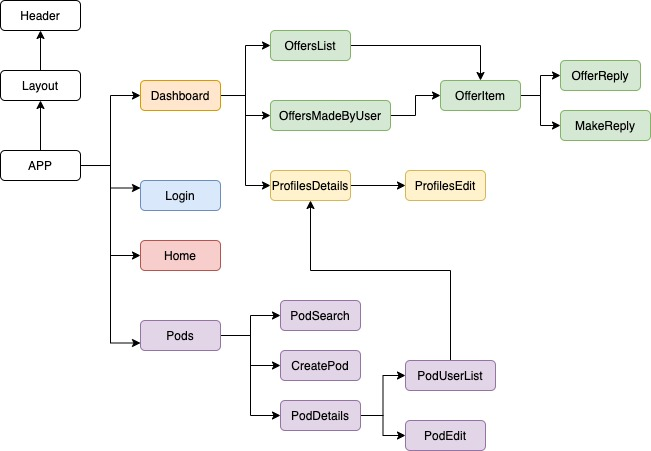
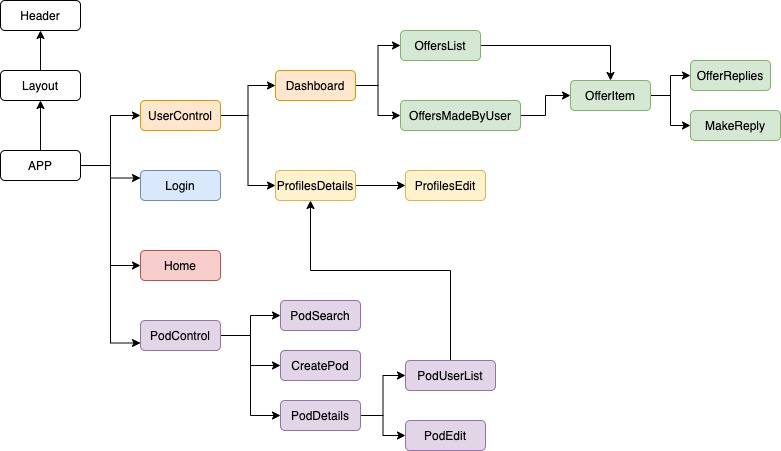
update NodeMockUp.js and add component files to match NodeMockUp with boiler plate code.

diff --git a/Victory-Exchange-Site/src/components/Layout/Header.js b/Victory-Exchange-Site/src/components/Layout/Header.js
@@ -19,12 +19,13 @@ function Header(props) {
         <Navbar.Toggle aria-controls="responsive-navbar-nav" />
         <Navbar.Collapse id="responsive-navbar-nav">
           <Nav className="mr-auto">
-            <Nav.Link as={Link} to="/about">
-              About
+            <Nav.Link as={Link} to="/dashboard">
+              Dashboard
             </Nav.Link>
-            <Nav.Link as={Link} to="/contact">
-              Contact
+            <Nav.Link as={Link} to="/findpods">
+              Find Pods
             </Nav.Link>
+
             {/* <NavDropdown title="Dropdown" id="collasible-nav-dropdown">
             <NavDropdown.Item href="#action/3.1">Action</NavDropdown.Item>
             <NavDropdown.Item href="#action/3.2">Another action</NavDropdown.Item>
@@ -34,15 +35,10 @@ function Header(props) {
           </NavDropdown> */}
           </Nav>
           <Nav>
-            <Nav.Link as={Link} to="/dashboard">
-              Dashboard
+            <Nav.Link as={Link} to="/contact">
+              Contact Us
             </Nav.Link>
-            <Nav.Link as={Link} to="/postslist">
-              Pods
-            </Nav.Link>
-            <Nav.Link as={Link} to="/podslist">
-              Offers
-            </Nav.Link>
+
             {props.auth ? (
               <Nav.Link as={Link} to="/login">
                 Sign in

diff --git a/Victory-Exchange-Site/src/components/App.js b/Victory-Exchange-Site/src/components/App.js
@@ -14,8 +14,8 @@ import Layout from './Layout/Layout';
 
 import Dashboard from './User/Dashboard';
 
-import PodsList from './Pods/PodsList';
-import OffersList from './Offers/OffersList';
+import PodControl from './Pods/PodControl';
+import OffersList from './User/Offers/OffersList';
 
 function App(props) {
   const auth = props.auth;
@@ -43,16 +43,15 @@ function App(props) {
     return (
       <Router>
         <Layout login={notSignedIt}>
-          <Redirect from={'/'} to={'/home'} />
-          <Route path="/home" component={Home} />
+          {/* <Redirect exact from={'/'} to={'/home'} /> */}
+          <Route exact path="/" component={Home} />
+          <Route exact path="/home" component={Home} />
           <Route path="/contact" component={Contact} />
-          <Route path="/about" component={About} />
           <Route path="/login" component={Login} />
 
           {/* PRIVATE ROUTE  */}
           <PrivateRoute path="/dashboard" authenticated={notSignedIt} component={Dashboard} />
-          <PrivateRoute path="/podslist" authenticated={notSignedIt} component={PodsList} />
-          <PrivateRoute path="/postslist" authenticated={notSignedIt} component={OffersList} />
+          <PrivateRoute path="/findpods" authenticated={notSignedIt} component={PodControl} />
         </Layout>
       </Router>
     );

diff --git a/Victory-Exchange-Site/src/components/Pods/PodControl.js b/Victory-Exchange-Site/src/components/Pods/PodControl.js
@@ -4,7 +4,7 @@ import PropTypes from 'prop-types';
 function PodsList(props) {
   return (
     <div>
-      <h1> Pod list</h1>
+      <h1> Find a pod to join </h1>
     </div>
   );
 }

diff --git a/Victory-Exchange-Site/src/components/User/Offers/OffersMadeByUser.js b/Victory-Exchange-Site/src/components/User/Offers/OffersMadeByUser.js
@@ -1,0 +1,7 @@
+import React from 'react';
+
+function OffersMadeByUser() {
+  return <div>Offers Made By User</div>;
+}
+
+export default OffersMadeByUser;

diff --git a/Victory-Exchange-Site/src/components/User/Profiles/ProfileDetails.js b/Victory-Exchange-Site/src/components/User/Profiles/ProfileDetails.js
@@ -1,0 +1,7 @@
+import React from 'react';
+
+function ProfileDetails() {
+  return <div>Profile Details</div>;
+}
+
+export default ProfileDetails;

diff --git a/Victory-Exchange-Site/src/components/Pods/PodUserList.js b/Victory-Exchange-Site/src/components/Pods/PodUserList.js
@@ -1,0 +1,7 @@
+import React from 'react';
+
+function PodUserList() {
+  return <div>Pod User List</div>;
+}
+
+export default PodUserList;

diff --git a/Victory-Exchange-Site/src/components/User/Offers/OfferReplies.js b/Victory-Exchange-Site/src/components/User/Offers/OfferReplies.js
@@ -1,0 +1,7 @@
+import React from 'react';
+
+function OfferReplys() {
+  return <div>Offer Replies</div>;
+}
+
+export default OfferReplys;

diff --git a/Victory-Exchange-Site/src/components/User/UserControl.js b/Victory-Exchange-Site/src/components/User/UserControl.js
@@ -1,0 +1,7 @@
+import React from 'react';
+
+function UserControl() {
+  return <div>UserControl</div>;
+}
+
+export default UserControl;

diff --git a/Victory-Exchange-Site/src/components/Pods/PodDetails.js b/Victory-Exchange-Site/src/components/Pods/PodDetails.js
@@ -1,0 +1,7 @@
+import React from 'react';
+
+function PodDetails() {
+  return <div>Pod Details</div>;
+}
+
+export default PodDetails;

diff --git a/Victory-Exchange-Site/src/components/Pods/PodCreate.js b/Victory-Exchange-Site/src/components/Pods/PodCreate.js
@@ -1,0 +1,7 @@
+import React from 'react';
+
+function PodCreate() {
+  return <div>Pod Create</div>;
+}
+
+export default PodCreate;

diff --git a/Victory-Exchange-Site/src/components/Pods/PodSearch.js b/Victory-Exchange-Site/src/components/Pods/PodSearch.js
@@ -1,0 +1,7 @@
+import React from 'react';
+
+function PodSearch() {
+  return <div>Pod Search</div>;
+}
+
+export default PodSearch;

diff --git a/Victory-Exchange-Site/src/components/User/Offers/MakeReply.js b/Victory-Exchange-Site/src/components/User/Offers/MakeReply.js
@@ -1,0 +1,7 @@
+import React from 'react';
+
+function MakeReply() {
+  return <div>Make Reply</div>;
+}
+
+export default MakeReply;
